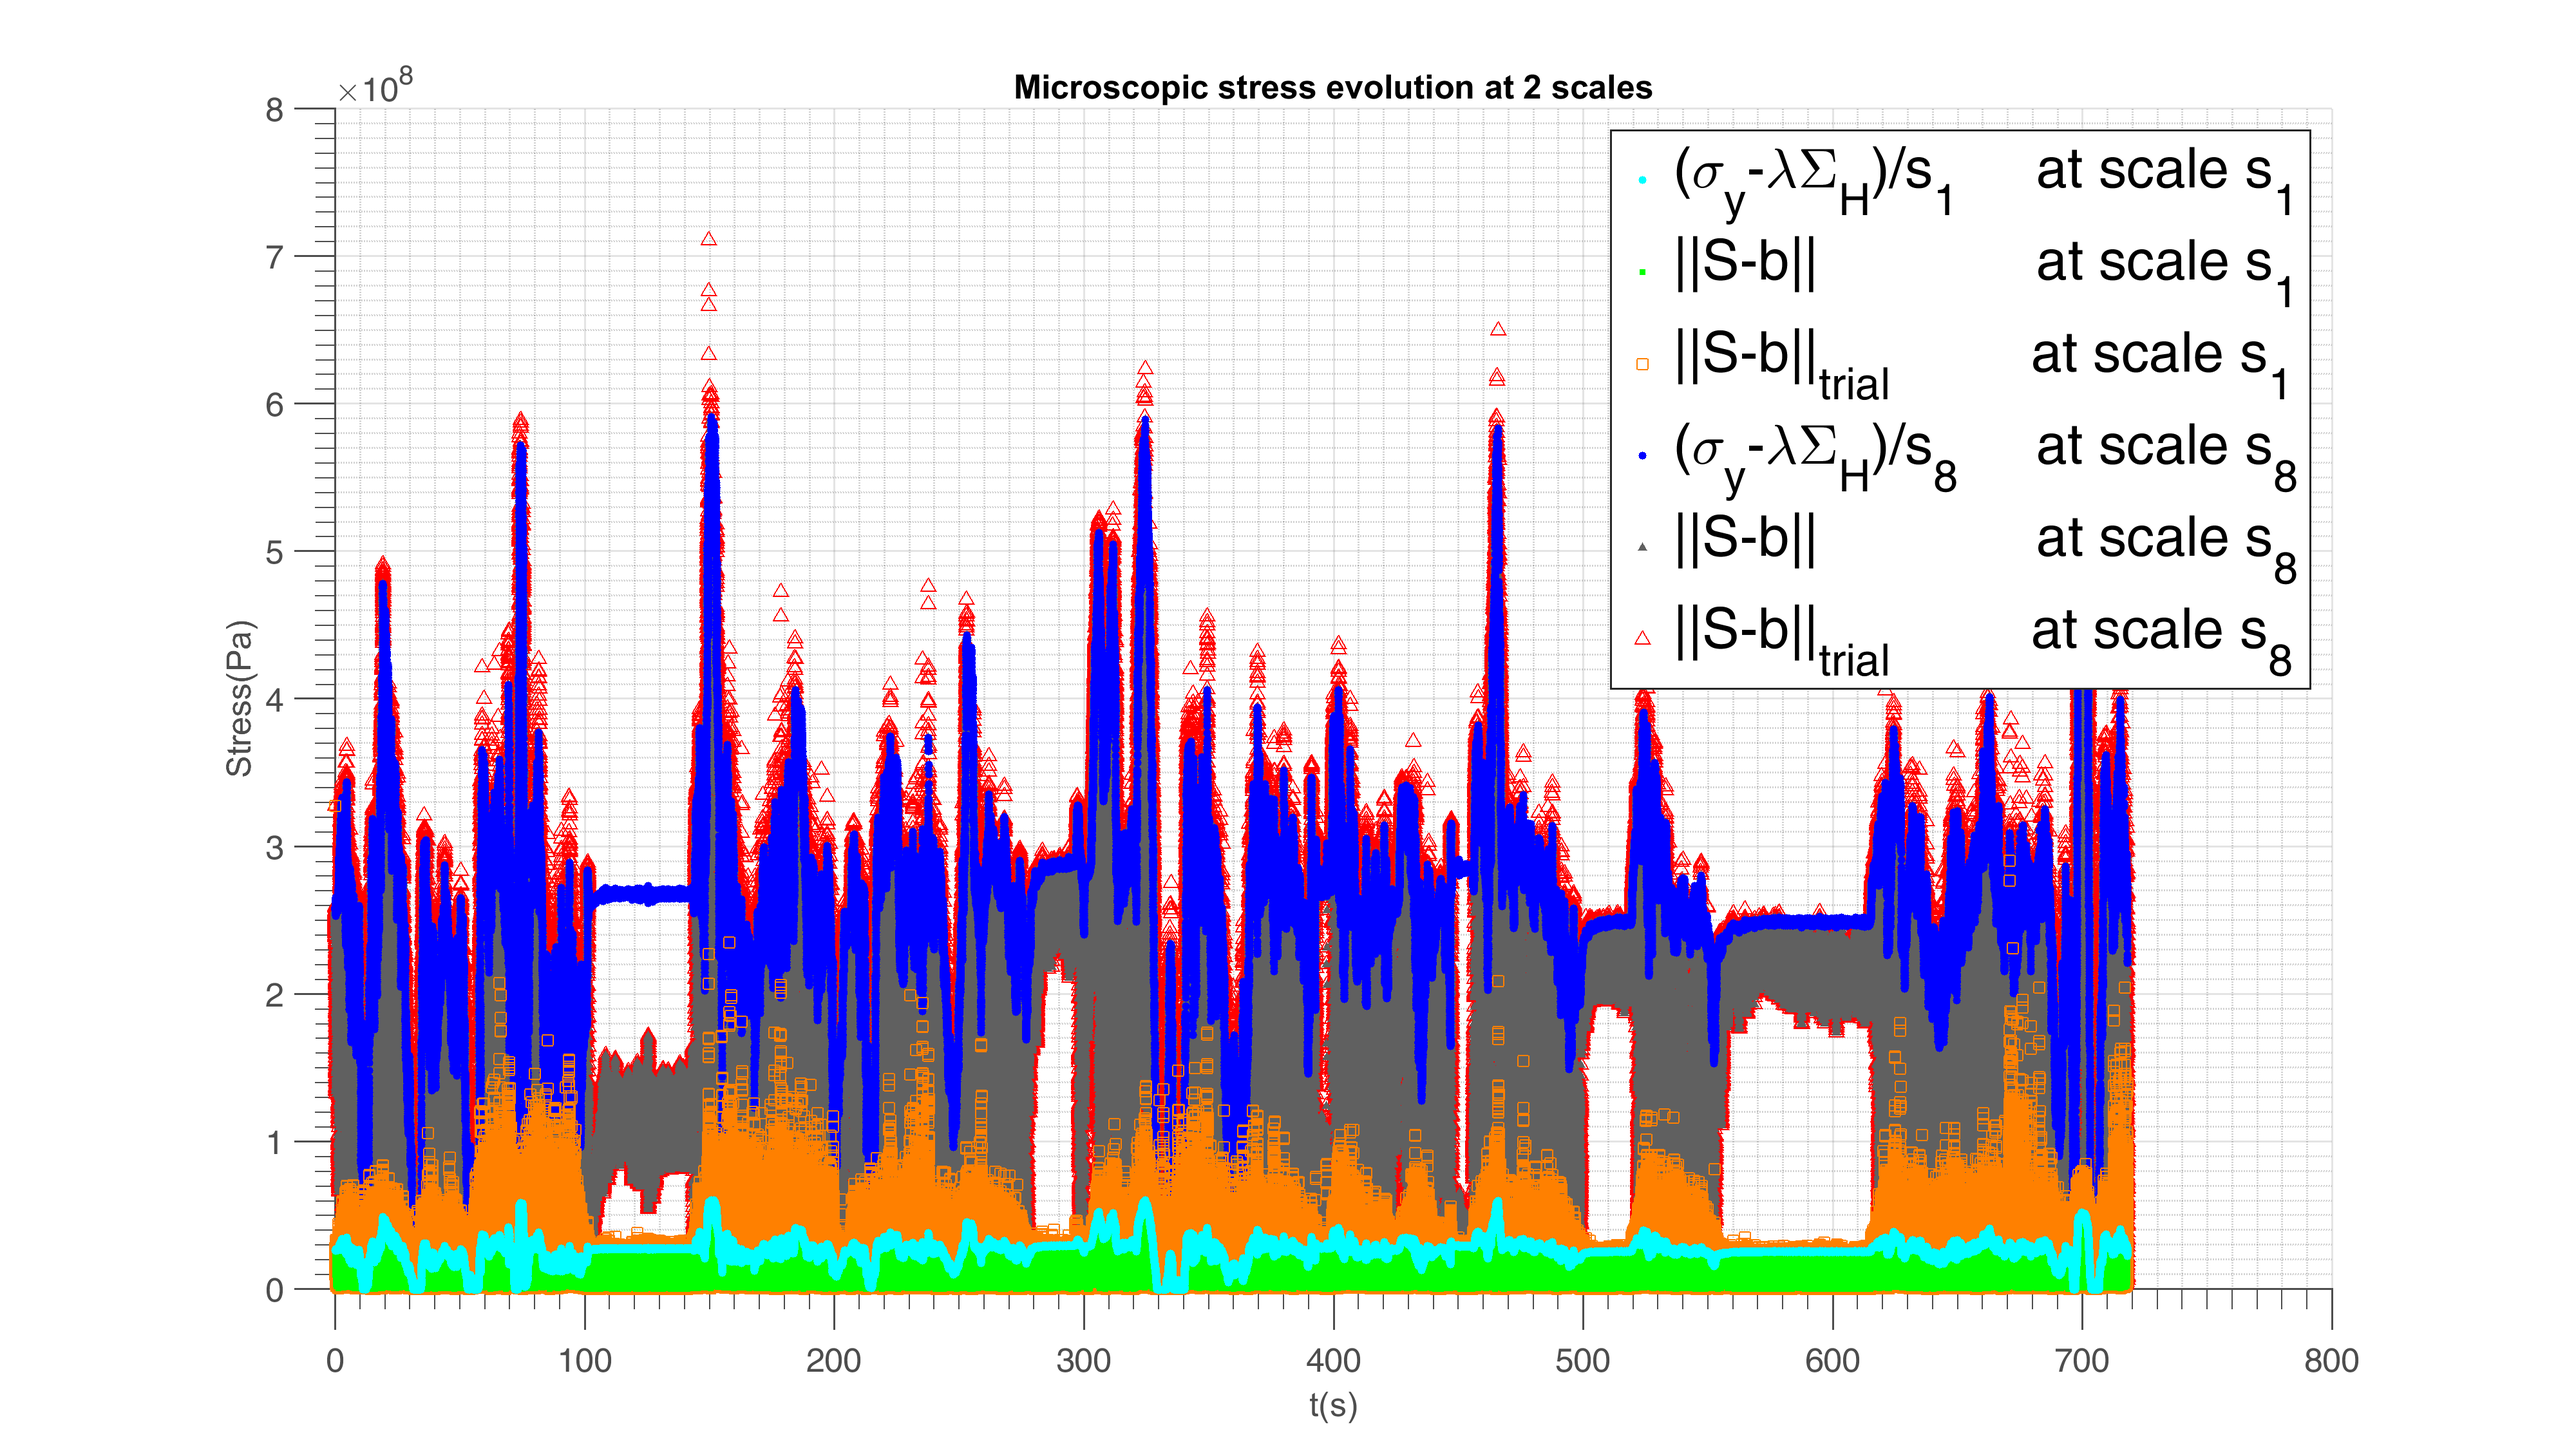
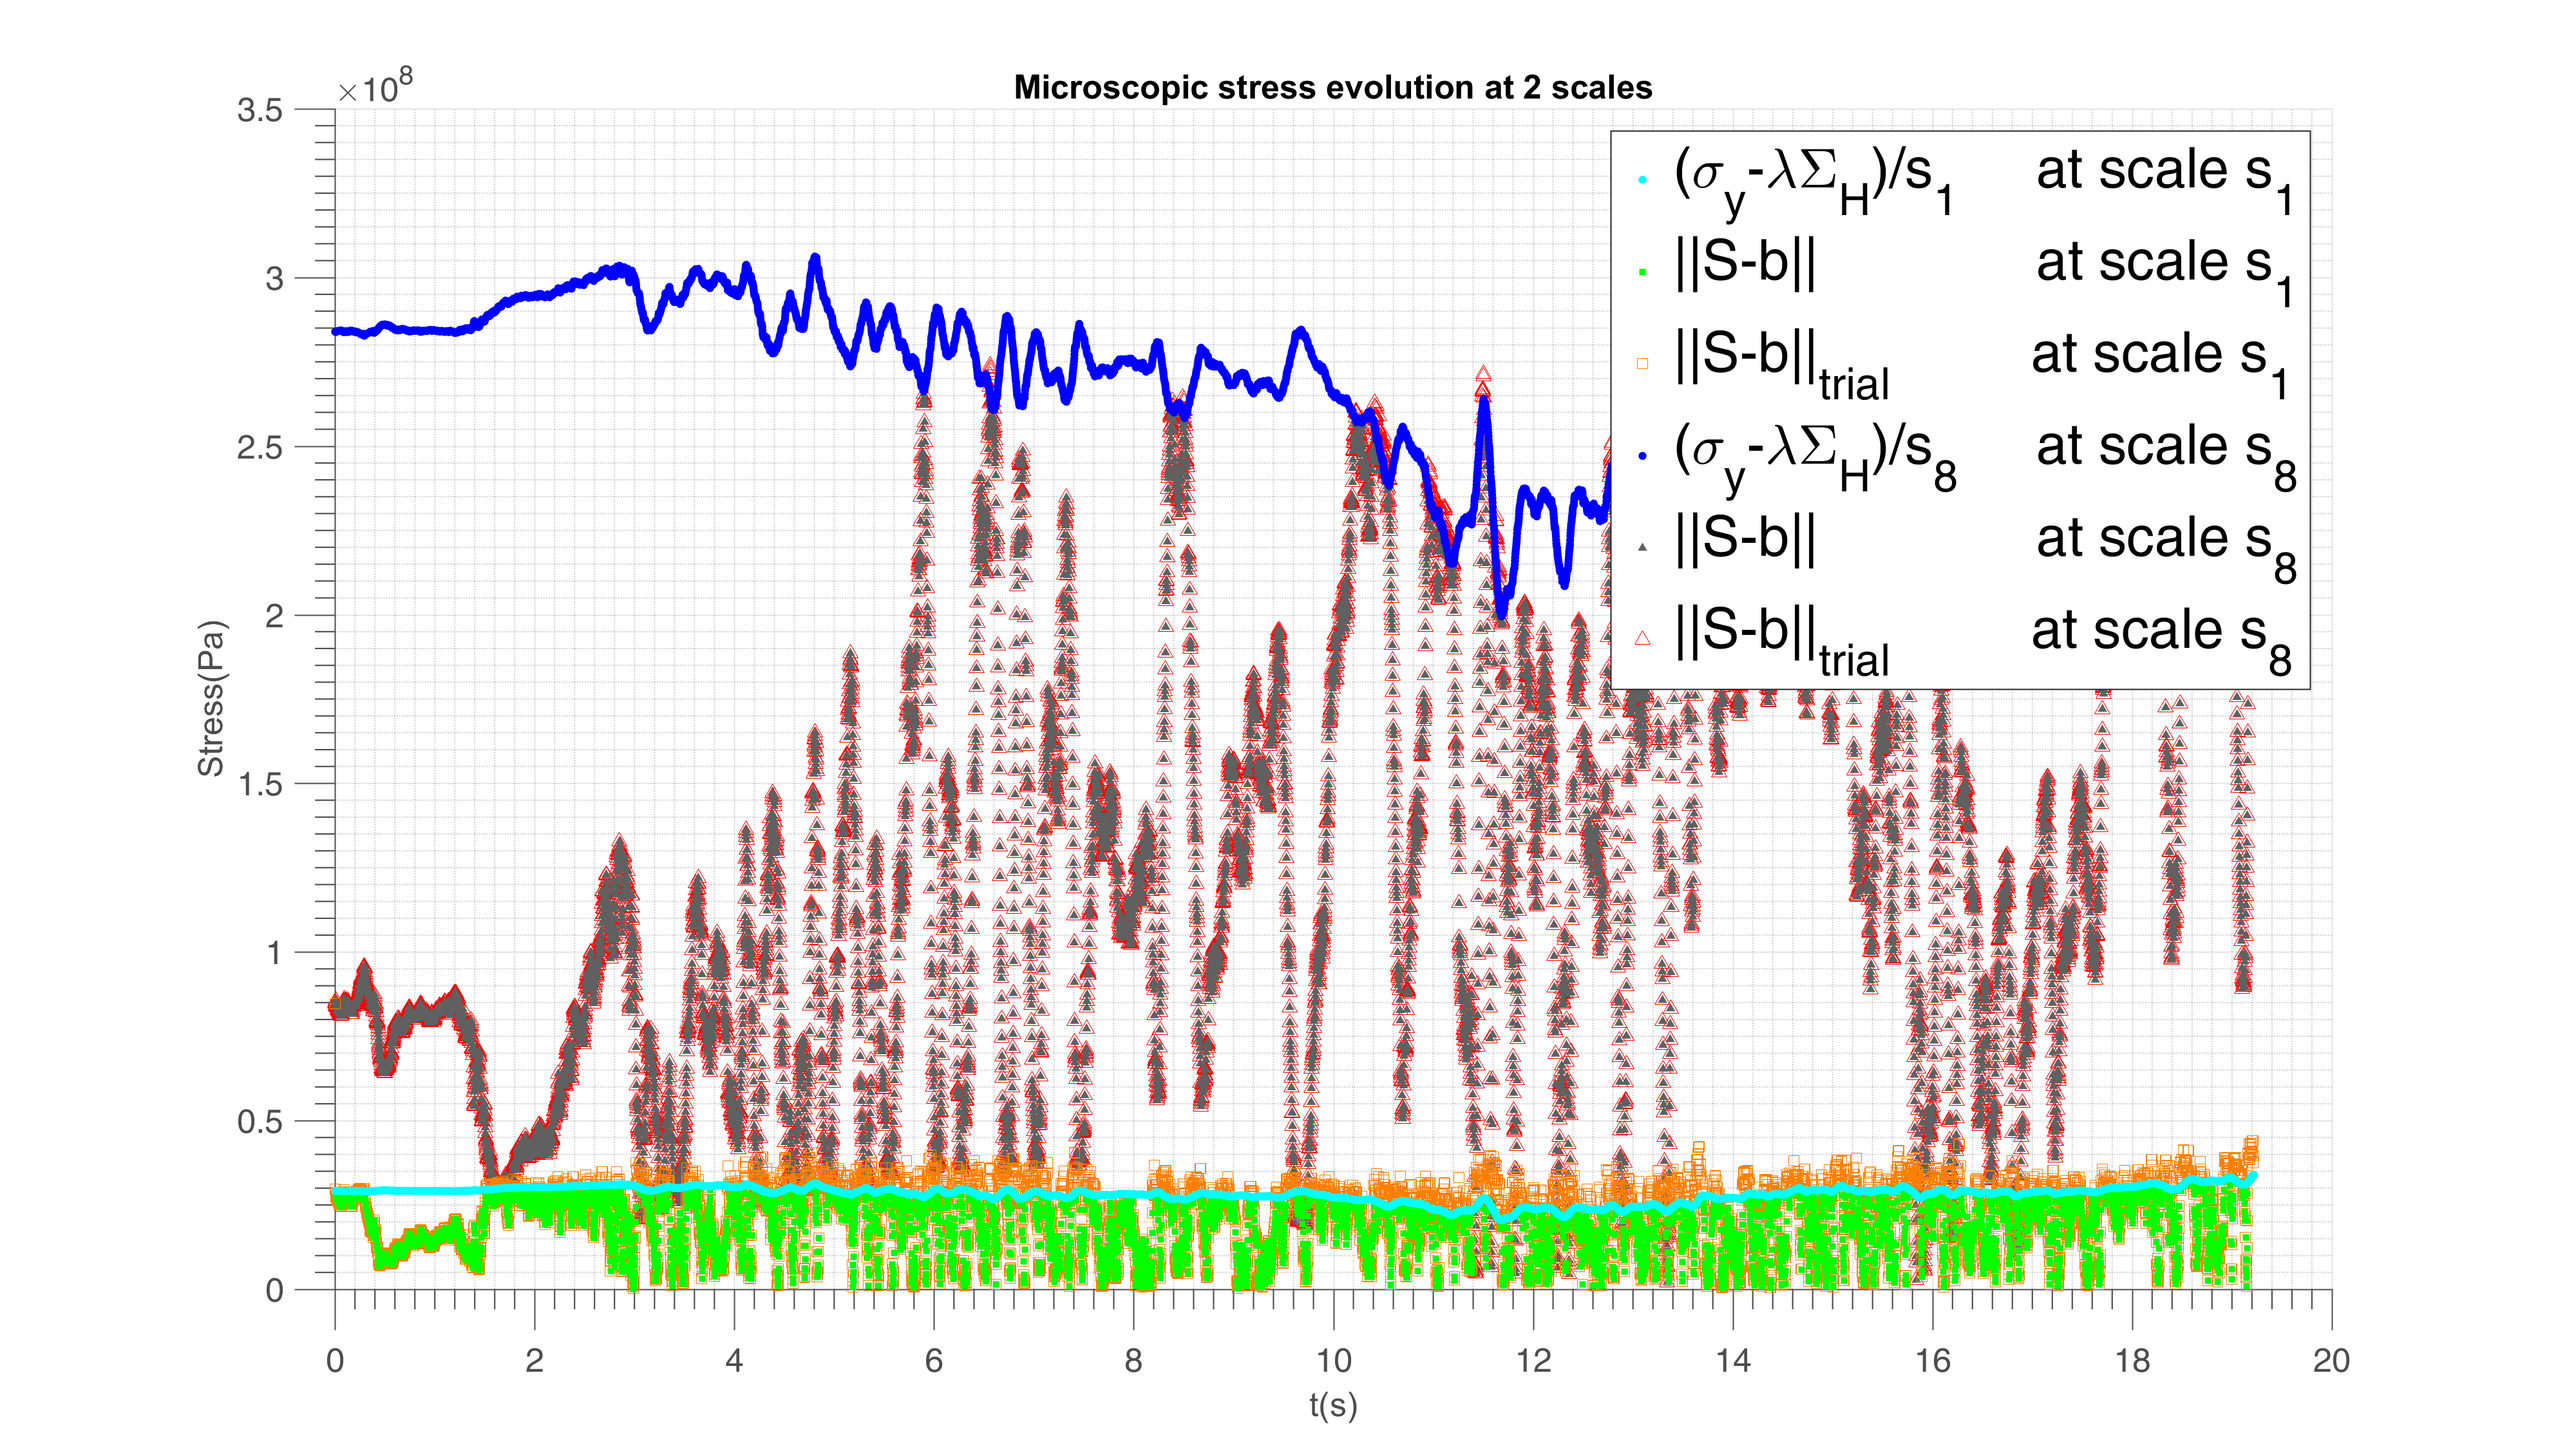
plot optimization and yield  evolves with D

diff --git a/trialreal3dVwithD.m b/trialreal3dVwithD.m
@@ -74,26 +74,27 @@ bc=tt;                     %crossland criterial constant
 sigu=8e8;             %ultimite stress
 gam=0.5;                %material parameter from Chaboche law(Wohler curve exponent)
 samplerate=256;   %recorded samples per second
-
+delta=3; %yield stress degradation sensitivity with D
 
 %---------------------Vecterization-----------------------------
 
-WF=3e6;             %dissipated energy to failure per unit volume
+WF=3e8;             %dissipated energy to failure per unit volume
 alp=0.8;
 D=0;             %initial damage
 n=1;                      %initial recording point
 step=1/samplerate/ari;
 t=n*step;
 G = (1 - (1 - D).^(gam + 1)).^(1-alp);
-yield = zeros(size(forcelx)); %Pre-allocate memory for vector
+yield = zeros(size(forcelx)); %Pre-allocate memory for vectors
 D = yield;
-normSb = zeros(length(forcelx),length(x));
+normSb = zeros(length(forcelx),length(x)); %Pre-allocate memory for tensors
 normtrial = normSb;
 
 %---------------------to get the the first Sb-----------------------------
-m=1/3*sum(stress11(1)+stress22(1)+stress33(1));
-yield(1)=y-lam*m; %macro yield strength considering mean stress effect
-dev1=[stress11(1) stress12(1) stress13(1);stress21(1) stress22(1) stress23(1);stress31(1) stress32(1) stress33(1)]-m*eye(3);
+hydro=1/3*sum(stress11(1)+stress22(1)+stress33(1));
+M=0.48*sigu*(1-3*hydro/sigu); %M function in Chaboche model
+yield(1)=y*(1-D)^delta*M; %macro yield strength considering mean stress effect
+dev1=[stress11(1) stress12(1) stress13(1);stress21(1) stress22(1) stress23(1);stress31(1) stress32(1) stress33(1)]-hydro*eye(3);
 dev11=dev1(1,1); dev12=dev1(1,2); dev13=dev1(1,3);
 dev21=dev1(2,1); dev22=dev1(2,2); dev23=dev1(2,3);
 dev31=dev1(3,1); dev32=dev1(3,2); dev33=dev1(3,3);
@@ -123,25 +124,27 @@ D(1)=1-(1-G.^(1/(1-alp))).^(1/(gam + 1));
 
 tic;
 while G<1
-    m=1/3*sum(stress11(n)+stress22(n)+stress33(n));
-    dev1=[stress11(n) stress12(n) stress13(n);stress21(n) stress22(n) stress23(n);stress31(n) stress32(n) stress33(n)]-m*eye(3);
+    hydro=1/3*sum(stress11(n)+stress22(n)+stress33(n));
+    dev1=[stress11(n) stress12(n) stress13(n);stress21(n) stress22(n) stress23(n);stress31(n) stress32(n) stress33(n)]-hydro*eye(3);
     dev11=dev1(1,1); dev12=dev1(1,2); dev13=dev1(1,3);
     dev21=dev1(2,1); dev22=dev1(2,2); dev23=dev1(2,3);
     dev31=dev1(3,1); dev32=dev1(3,2); dev33=dev1(3,3);
     
-    m=1/3*sum(stress11(n+1)+stress22(n+1)+stress33(n+1));
-    yield(n+1)=y-lam*m; %macro yield strength considering mean stress effect
-    yield(yield<0)=0;
-    devn=[stress11(n+1) stress12(n+1) stress13(n+1);stress21(n+1) stress22(n+1) stress23(n+1);stress31(n+1) stress32(n+1) stress33(n+1)]-m*eye(3);
+    hydro=1/3*sum(stress11(n+1)+stress22(n+1)+stress33(n+1));
+    M=0.48*sigu*(1-3*hydro/sigu); %M function in Chaboche model
+    M(M<0)=0;
+    yield(n+1)=y*(1-D)^delta*M; %macro yield strength considering mean stress effect
+
+    devn=[stress11(n+1) stress12(n+1) stress13(n+1);stress21(n+1) stress22(n+1) stress23(n+1);stress31(n+1) stress32(n+1) stress33(n+1)]-hydro*eye(3);
     dev11g=devn(1,1); dev12g=devn(1,2); dev13g=devn(1,3);
     dev21g=devn(2,1); dev22g=devn(2,2); dev23g=devn(2,3);
     dev31g=devn(3,1); dev32g=devn(3,2); dev33g=devn(3,3);
-    
     trial11=bsxfun(@plus,Sb11,(dev11g-dev11)); trial12=bsxfun(@plus,Sb12,(dev12g-dev12));trial13=bsxfun(@plus,Sb13,(dev13g-dev13));
     trial21=bsxfun(@plus,Sb21,(dev21g-dev21)); trial22=bsxfun(@plus,Sb22,(dev22g-dev22));trial23=bsxfun(@plus,Sb23,(dev23g-dev23));
     trial31=bsxfun(@plus,Sb31,(dev31g-dev31)); trial32=bsxfun(@plus,Sb32,(dev32g-dev32));trial33=bsxfun(@plus,Sb33,(dev33g-dev33));
     trialtensor=[trial11; trial12; trial13; trial21; trial22; trial23;trial31; trial32; trial33];
     normtrial(n+1,:)=sqrt(sum(trialtensor.^2));
+    
     eta=bsxfun(@minus,bsxfun(@times,normtrial(n+1,:)/yield(n+1),s),1); %1*25
     eta(eta<0)=0;
     
@@ -174,6 +177,7 @@ while G<1
 %             'MarkerEdgeColor', [1 0.5 0], 'MarkerFaceColor',[1 0.5 0]);
 %         Sb8=plot (n,normSb(n,8),'LineStyle', 'none','LineWidth', 1,'Marker', 'v', 'MarkerSize', 10, ...
 %             'MarkerEdgeColor','k', 'MarkerFaceColor','k');
+
     
     % DamageN=plot (t,D,'LineStyle', 'none','LineWidth', 1, 'Marker', 'o', 'MarkerSize',10, ...
     %    'MarkerEdgeColor',  'none', 'MarkerFaceColor' , 'r');
@@ -229,7 +233,7 @@ set(gcf, 'PaperPositionMode', 'manual');
 set(gcf, 'PaperUnits', 'points'); %[ {inches} | centimeters | normalized | points ]
 set(gcf, 'PaperPosition', [0 0 1920 1080]); %set(gcf,'PaperPosition',[left,bottom,width,height])
 
-saveas(gcf,'trialreal3d with simple yield.png');
+saveas(gcf,'trialreal3d yield evolve with D.png');
 
 %---------------------Plot Damage evolution-----------------------------
 figure(2);
@@ -259,8 +263,9 @@ set(gcf,'outerposition',get(0,'screensize'));
 set(gcf, 'PaperPositionMode', 'manual');
 set(gcf, 'PaperUnits', 'points'); %[ {inches} | centimeters | normalized | points ]
 set(gcf, 'PaperPosition', [0 0 1920 1080]); %set(gcf,'PaperPosition',[left,bottom,width,height])
-saveas(gcf,'damage3d with simple yield.png');
+saveas(gcf,'damage3d yield evolve with D.png');
 
 
-mail2me('job finished',['Elapsed time is ' num2str(toc) ' seconds. Real test time is ' testtime ' seconds. Number of test points is ' num2str(n/ari+1) ' points.']);
+ mail2me('job finished',['Elapsed time is ' num2str(toc) ' seconds. Real test time is ' testtime ' seconds. Number of test points is ' num2str(n/ari+1) ' points.']);
+%
 
